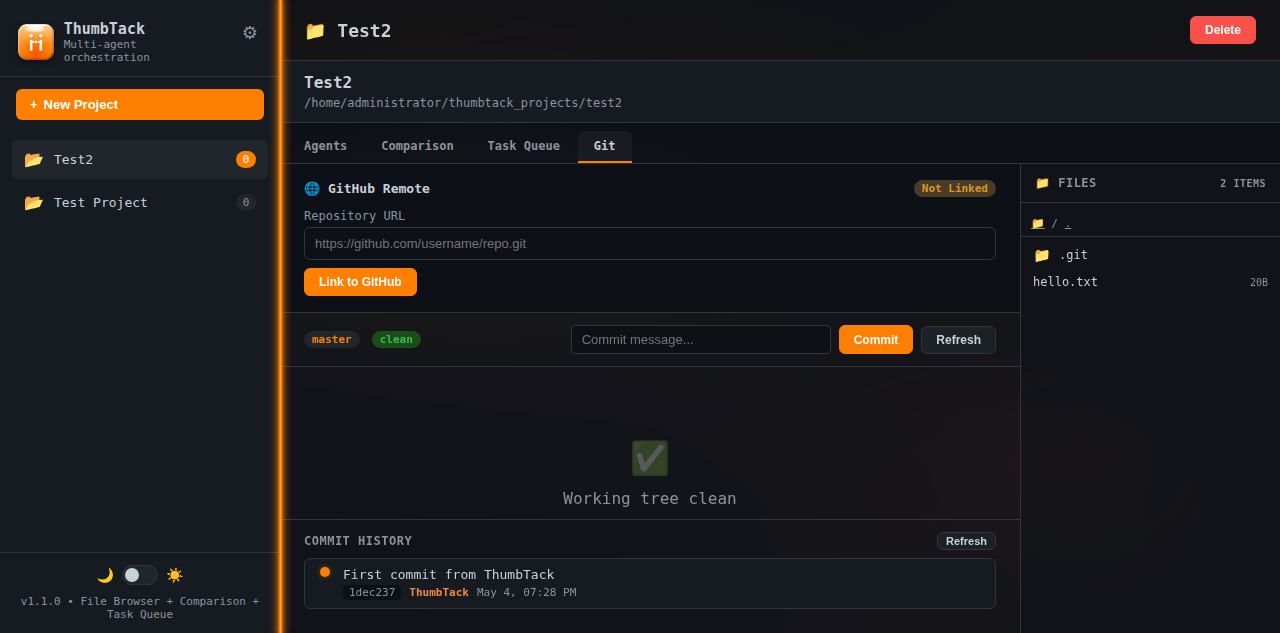
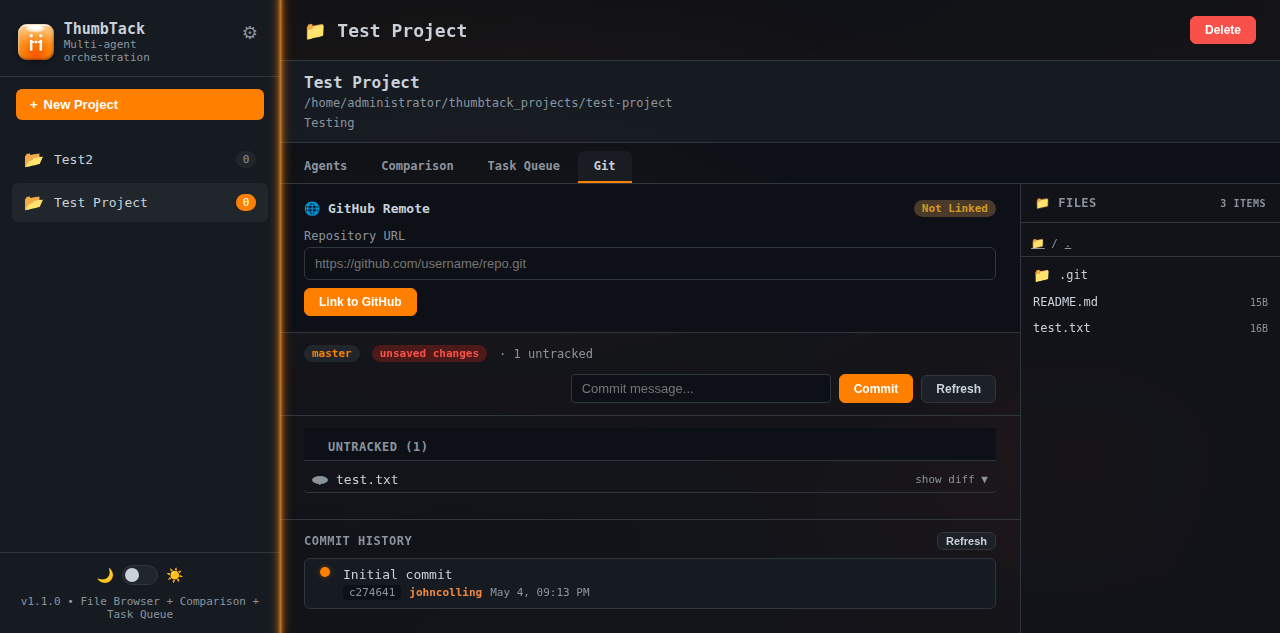
docs: fix README screenshot labels and add missing screenshots
- Corrected 'Git Tab' label (was actually showing Agents area)
- Added proper Agents tab screenshot showing agent spawner cards
- Added Settings screenshot showing GitHub credentials panel
- Updated Git tab screenshot to show actual git status/history
- Updated RESUME.md with new commit

diff --git a/README.md b/README.md
@@ -6,13 +6,21 @@ A dark or light-themed web application for spawning and orchestrating AI coding 
 
 ## Screenshots
 
-### Dashboard — Project Browser & Agent Spawner
+### Dashboard — Project Browser
 
 ![ThumbTack Homepage](docs/screenshots/thumbtack-homepage.png)
+
+### Agents — Agent Spawner & Active Agents
+
+![ThumbTack Agents Tab](docs/screenshots/thumbtack-agents-tab.png)
 
 ### Git Integration — Commit History & Repository Status
 
 ![ThumbTack Git Tab](docs/screenshots/thumbtack-git-tab.png)
+
+### Settings — GitHub Credentials & PAT Authentication
+
+![ThumbTack Settings](docs/screenshots/thumbtack-settings.png)
 
 ---
 
